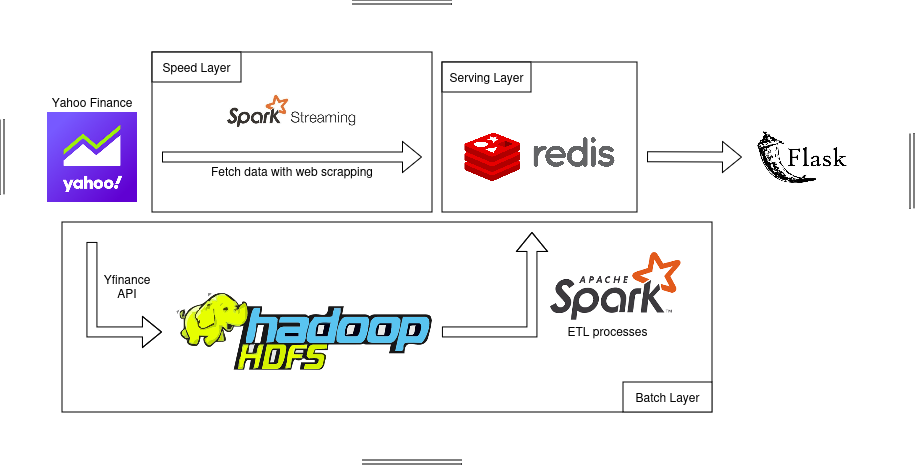
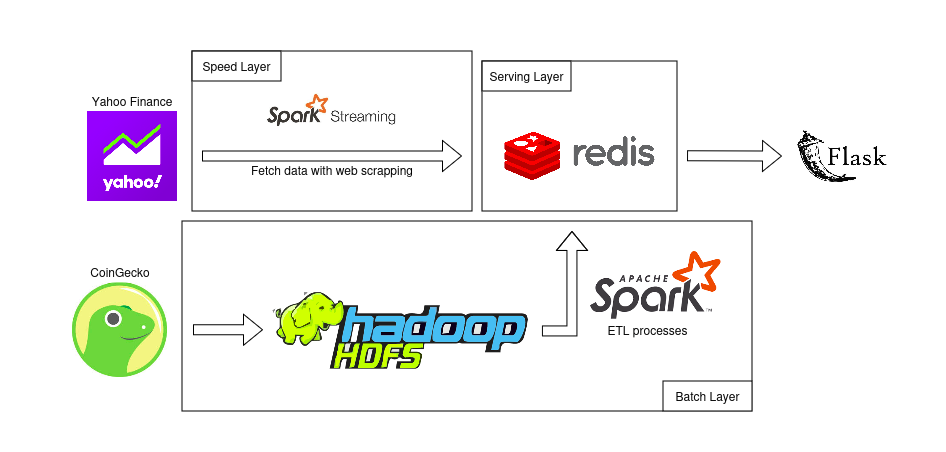
Update Readme

diff --git a/README.md b/README.md
@@ -1,17 +1,17 @@
 
 # Crypto Data Pipeline
 
-This project aims to create a data pipeline that fetches, stores and transforms cryptocurrency data from Yahoo Finance. The data is displayed both:
+This project aims to create a data pipeline that fetches, stores and transforms cryptocurrency data from Yahoo Finance and CoinGecko. The data is displayed both:
  - In real time with basic informations (price, volume).
  - In a consolidated view where the data is refreshed less often but displayed with indicators (forecasts, KPIs, ...)
 
 ## Architecture
 
-The project is built arround a Lambda architecture:
+The project is built around a Lambda architecture:
 - **Speed Layer:** Basic data (price, volume) is regularly scraped (every minute) from Yahoo Finance website and processed with Spark Streaming and then uploaded to redis.
 - **Batch Layer:**
-    - For each cryptocurrency, a sample containing the price and volume data of the last 48 hours is extracted periodically (every 30 minutes) with yfinance API and uploaded to HDFS.
-    - Data is proceced with Spark to calculate measures such as moving average or forecasts and uploaded in Redis.
+    - For each cryptocurrency, a sample containing the price and volume data of the last 48 hours is extracted periodically (every 30 minutes) with CoinGecko API and uploaded to HDFS.
+    - Data is processed with Spark to calculate measures such as moving average or forecasts and uploaded in Redis.
 - **Serving Layer:** Redis is used to store data using the TimeSeries format.
 
 
@@ -19,4 +19,6 @@ The project is built arround a Lambda architecture:
 
 ## Overview
 
-![Alt text](images/live_data_dashboard.png)
+![Alt text](images/live_dashboard.png)
+
+![Alt text](images/historical_dashboard.png)
